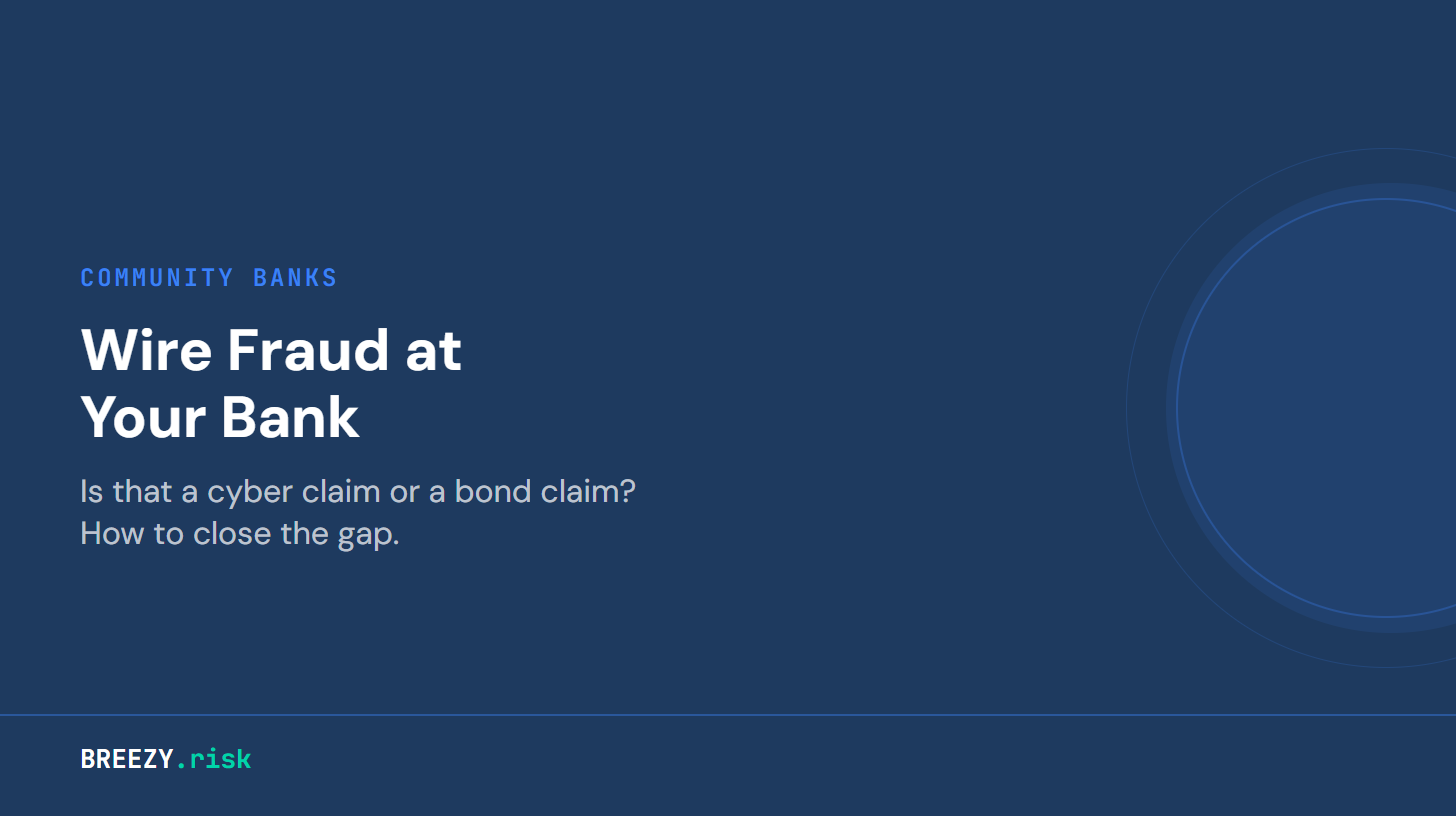
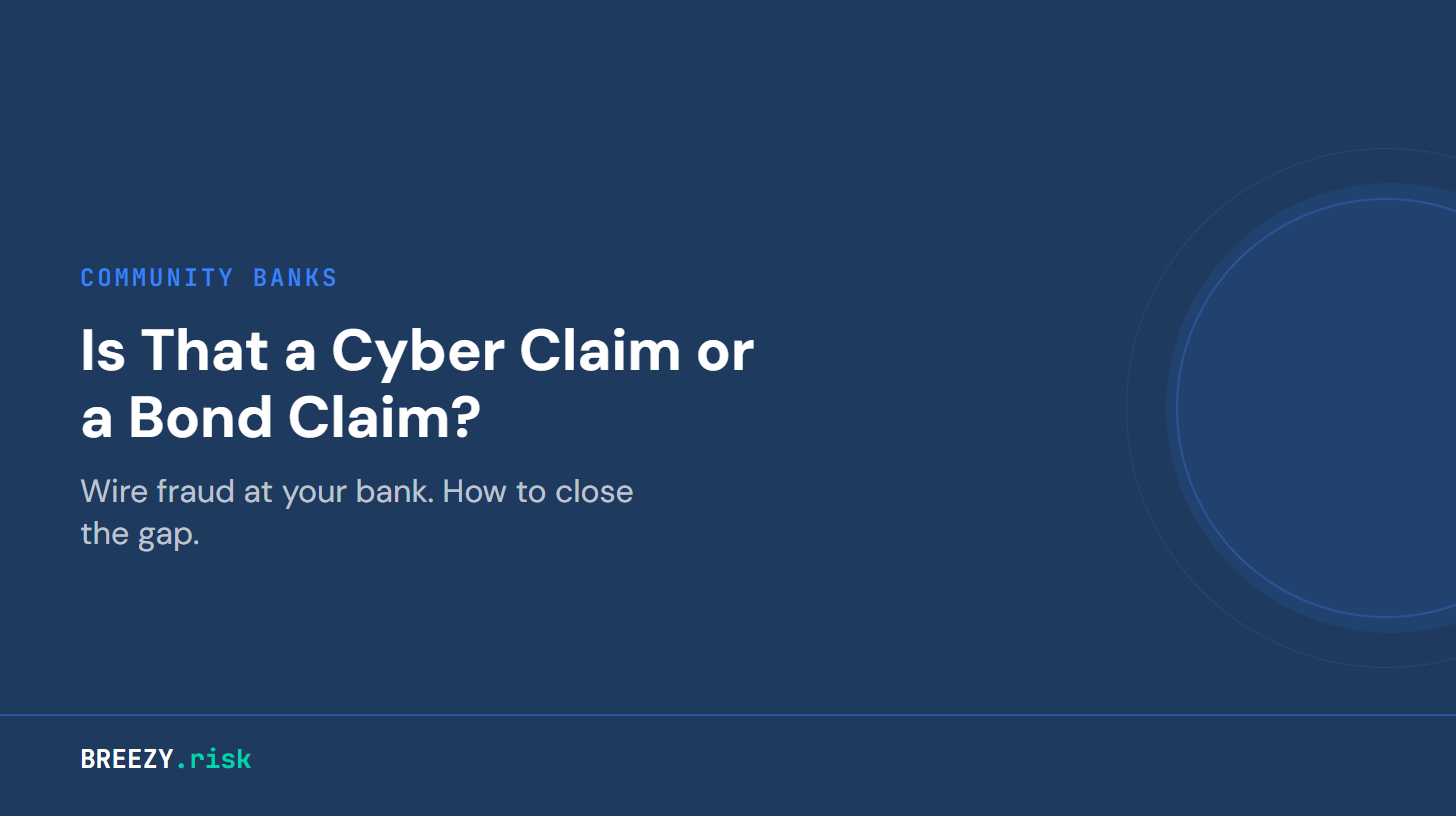
Differentiate wire fraud blog covers and add Recovery labels
Renamed Mar 10 post to "Is That a Cyber Claim or a Bond Claim?" to
avoid title overlap with "The Wire Nobody Covers." Fixed category
color to blue (#3B82F6) on both covers. Added "Loss: $400,000" and
"Recovery" labels to three-policy breakdown card.

Changed region(s): [[0.0309, 0.3983, 0.5254, 0.5515], [0.0309, 0.5821, 0.4327, 0.674]]

diff --git a/assets/images/blog-header-wire-fraud-bank.html b/assets/images/blog-header-wire-fraud-bank.html
@@ -135,8 +135,8 @@
 
     <div class="content">
         <div class="category">Community Banks</div>
-        <div class="title">Wire Fraud at<br>Your Bank</div>
-        <div class="subtitle">Is that a cyber claim or a bond claim? How to close the gap.</div>
+        <div class="title">Is That a Cyber Claim or a Bond Claim?</div>
+        <div class="subtitle">Wire fraud at your bank. How to close the gap.</div>
     </div>
 
     <div class="logo">BREEZY<span class="teal">.risk</span></div>

diff --git a/assets/images/blog-header-wire-nobody-covers.html b/assets/images/blog-header-wire-nobody-covers.html
@@ -88,7 +88,7 @@
             font-weight: 600;
             letter-spacing: 0.12em;
             text-transform: uppercase;
-            color: #00D4AA;
+            color: #3B82F6;
             margin-bottom: 24px;
         }
 

diff --git a/_posts/2026-03-27-the-wire-nobody-covers.md b/_posts/2026-03-27-the-wire-nobody-covers.md
@@ -32,21 +32,22 @@ The bond does have a funds transfer clause that covers this type of loss, but it
 
 <div style="background: #0A2540; border-radius: 12px; padding: 32px; margin: 32px 0; color: #fff;">
 <h3 style="color: #00D4AA; margin-top: 0; font-size: 18px;">Three-Policy Breakdown</h3>
+<div style="color: rgba(255,255,255,0.6); font-size: 15px; margin-bottom: 16px;">Loss: $400,000</div>
 <div style="display: flex; flex-wrap: wrap; gap: 16px;">
 <div style="flex: 1; min-width: 220px; background: rgba(59,130,246,0.1); border-left: 4px solid #3B82F6; border-radius: 8px; padding: 20px;">
 <div style="color: #93C5FD; font-weight: 700; font-size: 14px; text-transform: uppercase; letter-spacing: 0.05em; margin-bottom: 10px;">Cyber Policy</div>
 <div style="color: rgba(255,255,255,0.8); font-size: 15px; line-height: 1.55;">Social engineering coverage not purchased. No response.</div>
-<div style="margin-top: 14px; padding-top: 10px; border-top: 1px solid rgba(255,255,255,0.12); font-size: 20px; font-weight: 700; color: #93C5FD;">$0</div>
+<div style="margin-top: 14px; padding-top: 10px; border-top: 1px solid rgba(255,255,255,0.12);"><div style="font-size: 12px; color: rgba(255,255,255,0.45); text-transform: uppercase; letter-spacing: 0.05em; margin-bottom: 4px;">Recovery</div><div style="font-size: 20px; font-weight: 700; color: #93C5FD;">$0</div></div>
 </div>
 <div style="flex: 1; min-width: 220px; background: rgba(245,158,11,0.1); border-left: 4px solid #F59E0B; border-radius: 8px; padding: 20px;">
 <div style="color: #FCD34D; font-weight: 700; font-size: 14px; text-transform: uppercase; letter-spacing: 0.05em; margin-bottom: 10px;">Fidelity Bond</div>
 <div style="color: rgba(255,255,255,0.8); font-size: 15px; line-height: 1.55;">Voluntary parting exclusion applies. Funds transfer clause pays out with 50% co-payment.</div>
-<div style="margin-top: 14px; padding-top: 10px; border-top: 1px solid rgba(255,255,255,0.12); font-size: 20px; font-weight: 700; color: #FCD34D;">$200,000</div>
+<div style="margin-top: 14px; padding-top: 10px; border-top: 1px solid rgba(255,255,255,0.12);"><div style="font-size: 12px; color: rgba(255,255,255,0.45); text-transform: uppercase; letter-spacing: 0.05em; margin-bottom: 4px;">Recovery</div><div style="font-size: 20px; font-weight: 700; color: #FCD34D;">$200,000</div></div>
 </div>
 <div style="flex: 1; min-width: 220px; background: rgba(139,92,246,0.1); border-left: 4px solid #8B5CF6; border-radius: 8px; padding: 20px;">
 <div style="color: #C4B5FD; font-weight: 700; font-size: 14px; text-transform: uppercase; letter-spacing: 0.05em; margin-bottom: 10px;">D&amp;O Policy</div>
 <div style="color: rgba(255,255,255,0.8); font-size: 15px; line-height: 1.55;">Not directly triggered. No board-level claim filed yet.</div>
-<div style="margin-top: 14px; padding-top: 10px; border-top: 1px solid rgba(255,255,255,0.12); font-size: 20px; font-weight: 700; color: #C4B5FD;">$0</div>
+<div style="margin-top: 14px; padding-top: 10px; border-top: 1px solid rgba(255,255,255,0.12);"><div style="font-size: 12px; color: rgba(255,255,255,0.45); text-transform: uppercase; letter-spacing: 0.05em; margin-bottom: 4px;">Recovery</div><div style="font-size: 20px; font-weight: 700; color: #C4B5FD;">$0</div></div>
 </div>
 </div>
 <p style="margin-top: 20px; padding-top: 16px; border-top: 1px solid rgba(255,255,255,0.15); font-size: 20px; font-weight: 700; color: #fff;">

diff --git a/_posts/2026-03-10-wire-fraud-cyber-claim-or-bond-claim.md b/_posts/2026-03-10-wire-fraud-cyber-claim-or-bond-claim.md
@@ -1,6 +1,6 @@
 ---
 layout: post
-title: "Wire Fraud at Your Bank: Is That a Cyber Claim or a Bond Claim?"
+title: "Is That a Cyber Claim or a Bond Claim?"
 description: "When wire fraud hits a community bank, the cyber carrier and the fidelity bond carrier both point to the other policy. Here is how to close the gap before a claim forces the question."
 date: 2026-03-10
 author: Joerg Proeve
